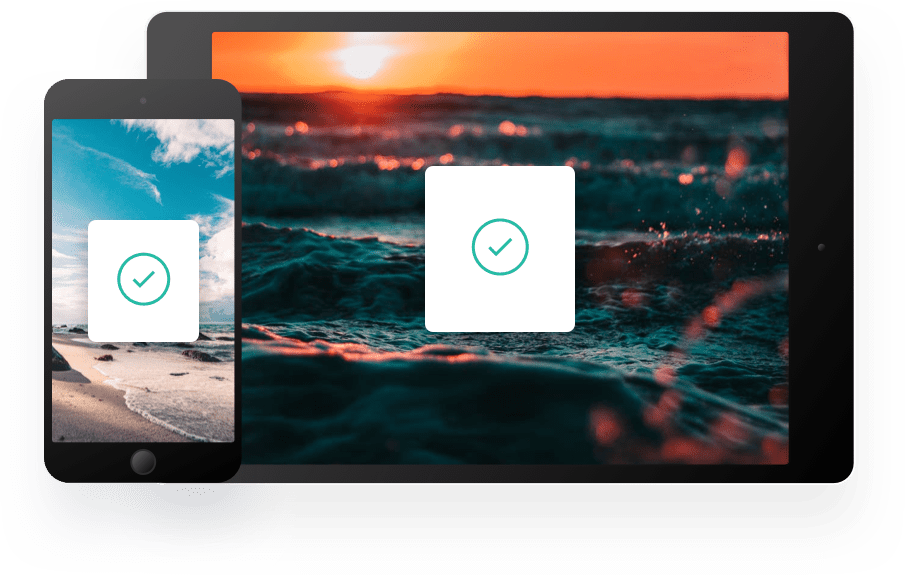
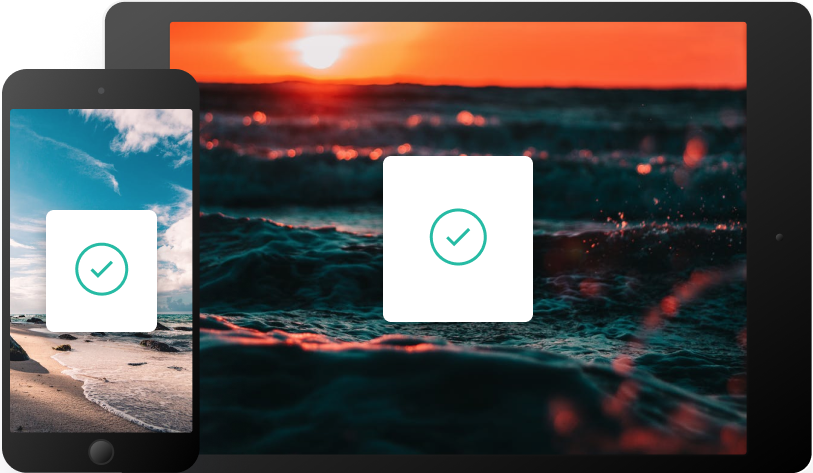
implemented responsive section access anywhere

diff --git a/index.html b/index.html
@@ -4,12 +4,8 @@
 <head>
   <meta charset="UTF-8">
   <meta name="viewport" content="width=device-width, initial-scale=1.0">
-  <!-- displays site properly based on user's device -->
-
   <link rel="icon" type="image/png" sizes="32x32" href="./images/favicon-32x32.png">
-
   <title>Frontend Mentor | Clipboard landing page</title>
-
   <link rel="stylesheet" href="styles/styles.css">
 </head>
 
@@ -26,43 +22,59 @@
         <a href="/" class="cta-secondary">Download for Mac</a>
       </div>
     </header>
+
     <section class="keep-track-section" aria-labelledby="keep-track-title">
       <header class="header-component">
         <h2 id="keep-track-title" class="section-title">Keep track of your snippets</h2>
-        <p class="section-subtitle">Clipboard instantly stores any item you copy in the cloud,
+        <p class="section-subtitle">Clipboard instantly stores any item you copy in the
+          cloud,
           meaning you can access your snippets immediately on all your
           devices. Our Mac and iOS apps will help you organize everything.</p>
-        <ul class="features-list">
-          <li>
-            <article class="feature-card">
-              <h3 class="card-title">Quick Search</h3>
-              <p class="card-description">Easily search your snippets by content, category, web
-                address, application, and more.</p>
-            </article>
-          </li>
-          <li>
-            <article class="feature-card">
-              <h3 class="card-title">iCloud Sync</h3>
-              <p class="card-description">Instantly saves and syncs snippets across all your
-                devices.</p>
-            </article>
-          </li>
-          <li>
-            <article class="feature-card">
-              <h3 class="card-title">Complete History</h3>
-              <p class="card-description">Retrieve any snippets from the first moment you
-                started using the app.</p>
-            </article>
-          </li>
-        </ul>
+      </header>
+      <ul class="features-list">
+        <li>
+          <article class="feature-card">
+            <h3 class="card-title">Quick Search</h3>
+            <p class="card-description">Easily search your snippets by content,
+              category, web
+              address, application, and more.</p>
+          </article>
+        </li>
+        <li>
+          <article class="feature-card">
+            <h3 class="card-title">iCloud Sync</h3>
+            <p class="card-description">Instantly saves and syncs snippets across all
+              your
+              devices.</p>
+          </article>
+        </li>
+        <li>
+          <article class="feature-card">
+            <h3 class="card-title">Complete History</h3>
+            <p class="card-description">Retrieve any snippets from the first moment you
+              started using the app.</p>
+          </article>
+        </li>
+      </ul>
+
+    </section>
+
+    <section class="access-anywhere-section" aria-labelledby="access-anywhere-title">
+      <header class="header-component">
+        <h2 id="access-anywhere-title" class="section-title">Access Clipboard anywhere
+        </h2>
+        <p class="section-subtitle">Whether you're on the go, or at your computer, you can
+          access all your Clipboard
+          snippets in a few simple clicks.</p>
       </header>
     </section>
+
+
   </main>
 
-  Access Clipboard anywhere
 
-  Whether you’re on the go, or at your computer, you can access all your Clipboard
-  snippets in a few simple clicks.
+
+
 
   Supercharge your workflow
 

diff --git a/scss/styles.scss b/scss/styles.scss
@@ -23,7 +23,6 @@ $breakpoints: (
   }
 }
 
-
 @mixin media-only-tablet {
   @media screen and (min-width: rem(map.get($breakpoints, tablet))) and (max-width: rem(map.get($breakpoints, laptop) - 1)) {
     @content;
@@ -39,7 +38,6 @@ $breakpoints: (
   clip: rect(1px 1px 1px 1px);
   clip: rect(1px, 1px, 1px, 1px);
 }
-
 
 @mixin container {
   padding-inline: 8.5333333%;
@@ -90,7 +88,6 @@ ol {
   --color-text-light: hsl(201, 11%, 66%);
   --white: #fff;
 }
-
 
 .hero-section {
   @include container;
@@ -197,7 +194,6 @@ ol {
   }
 }
 
-
 .header-component {
   display: flex;
   flex-direction: column;
@@ -256,13 +252,13 @@ ol {
     gap: rem(48);
 
     @include media(laptop) {
-      width: 100%;
-      margin: rem(80) 0 0;
+      width: min(100%, 1440px);
+      margin: rem(80) auto 0;
       grid-template-columns: 1fr 350px;
       gap: 56px 110px;
       align-content: center;
       align-items: center;
-      max-width: 1440px;
+
       padding-inline: 0px min(18.0555556%, 260px);
       overflow: hidden;
 
@@ -324,6 +320,31 @@ ol {
       text-align: left;
     }
   }
+}
+
+.access-anywhere-section {
+  margin-top: rem(186);
+  @include container;
 
 
+  @include media(laptop) {
+    margin-top: rem(150);
+  }
+
+  &::after {
+    content: '';
+    display: block;
+    margin: rem(64) auto 0;
+    width: min(100%, 812px);
+    padding-bottom: min(58.4975369%, 475px);
+    background-image: url(/images/image-devices.png);
+    background-repeat: no-repeat;
+    background-size: contain;
+    background-position: center;
+
+
+    @include media(laptop) {
+      margin-top: rem(110);
+    }
+  }
 }

diff --git a/styles/styles.css b/styles/styles.css
@@ -214,13 +214,12 @@ ol {
 }
 @media screen and (min-width: 75rem) {
   .keep-track-section .features-list {
-    width: 100%;
-    margin: 5rem 0 0;
+    width: min(100%, 1440px);
+    margin: 5rem auto 0;
     grid-template-columns: 1fr 350px;
     gap: 56px 110px;
     align-content: center;
     align-items: center;
-    max-width: 1440px;
     padding-inline: 0px min(18.0555556%, 260px);
     overflow: hidden;
   }
@@ -279,6 +278,37 @@ ol {
 @media screen and (min-width: 75rem) {
   .keep-track-section .card-description {
     text-align: left;
+  }
+}
+
+.access-anywhere-section {
+  margin-top: 11.625rem;
+  padding-inline: 8.5333333%;
+}
+@media screen and (min-width: 75rem) {
+  .access-anywhere-section {
+    padding-inline: calc(50vw - 555px);
+  }
+}
+@media screen and (min-width: 75rem) {
+  .access-anywhere-section {
+    margin-top: 9.375rem;
+  }
+}
+.access-anywhere-section::after {
+  content: "";
+  display: block;
+  margin: 4rem auto 0;
+  width: min(100%, 812px);
+  padding-bottom: min(58.4975369%, 475px);
+  background-image: url(/images/image-devices.png);
+  background-repeat: no-repeat;
+  background-size: contain;
+  background-position: center;
+}
+@media screen and (min-width: 75rem) {
+  .access-anywhere-section::after {
+    margin-top: 6.875rem;
   }
 }
 
